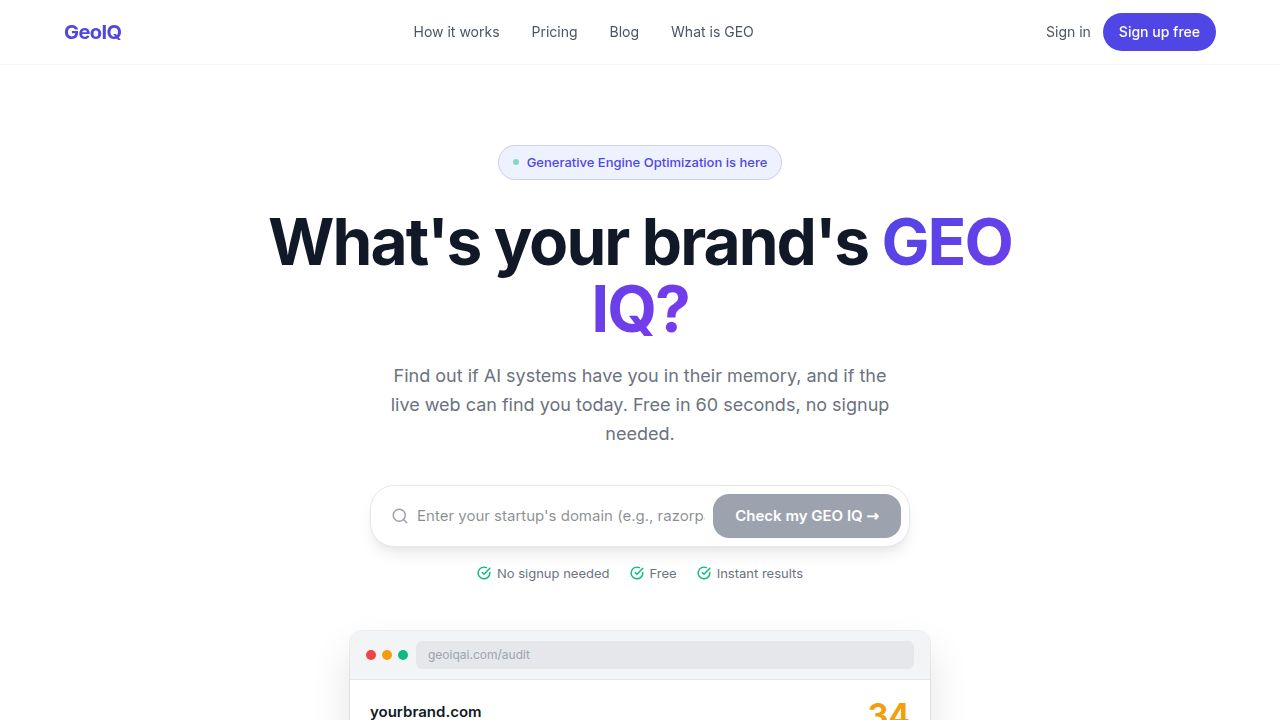
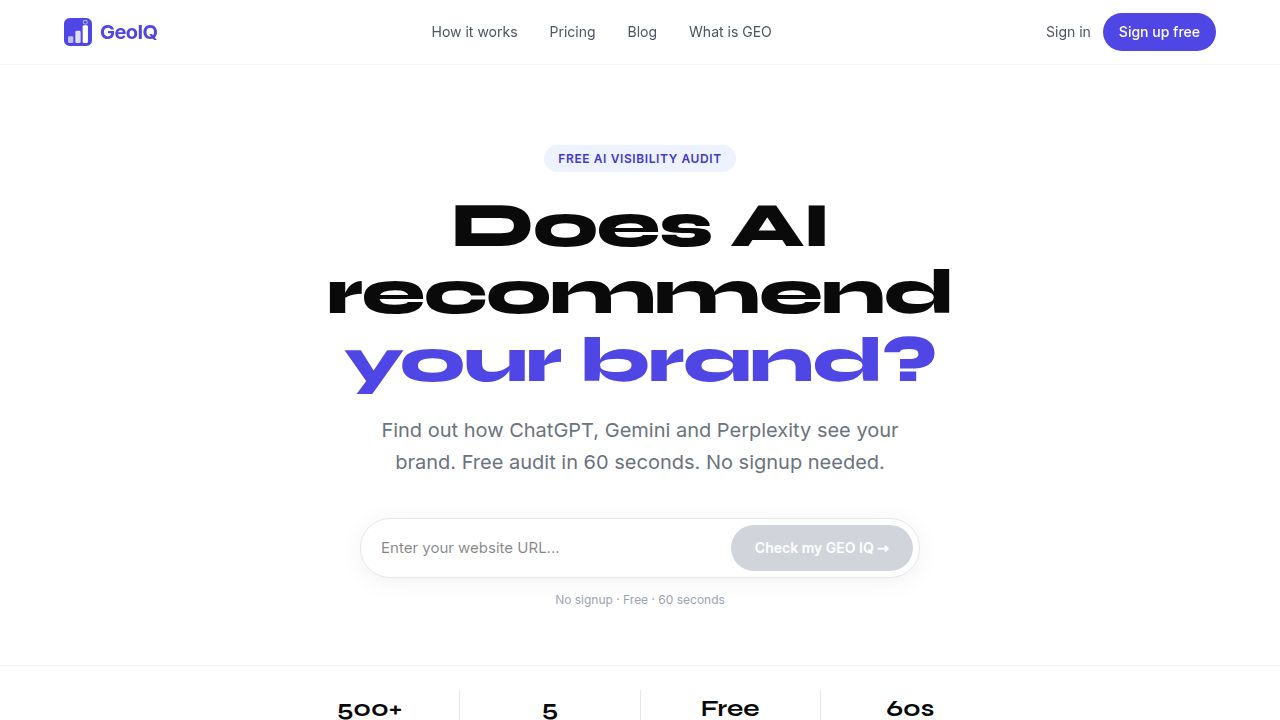
Add revenue overview to admin panel
Task: Add a revenue overview to the admin panel (#3)

Changes:
- artifacts/geoscore/src/pages/Admin.tsx:
  - Added TrendingUp icon import from lucide-react
  - Computed starterCount, agencyCount, and estimatedMRR from the
    already-loaded users array (Starter x Rs 3,999 + Agency x Rs 11,999)
  - Changed stat cards grid from 3 to 4 columns
  - Added a 4th "Est. MRR" card (amber/gold accent) showing the total
    estimated MRR formatted with en-IN locale (e.g. Rs 15,997)
  - Card includes a breakdown sub-line: "X Starter x Rs 3,999 / Y Agency x Rs 11,999"
  - Breakdown only renders once data is loaded (no flicker during load state)

No backend changes needed - all calculations are derived from the existing
users list already fetched by /api/admin/users.

No deviations from the task spec.

Replit-Task-Id: 6f61c469-0008-4d4a-9e07-03165dfe9f38

diff --git a/artifacts/geoscore/src/pages/Admin.tsx b/artifacts/geoscore/src/pages/Admin.tsx
@@ -1,6 +1,6 @@
 import { useState, useEffect } from "react";
 import { useLocation } from "wouter";
-import { Shield, Users, Ban, CheckCircle, LogOut, UserPlus, KeyRound, X } from "lucide-react";
+import { Shield, Users, Ban, CheckCircle, LogOut, UserPlus, KeyRound, X, TrendingUp } from "lucide-react";
 
 const ADMIN_EMAILS = ["[email redacted]"];
 
@@ -189,6 +189,9 @@ export default function Admin() {
   const totalUsers = users.length;
   const paidUsers = users.filter(u => u.plan !== "free").length;
   const blockedUsers = users.filter(u => u.blocked).length;
+  const starterCount = users.filter(u => u.plan === "starter").length;
+  const agencyCount = users.filter(u => u.plan === "agency").length;
+  const estimatedMRR = starterCount * 3999 + agencyCount * 11999;
 
   const modalOverlay: React.CSSProperties = {
     position: "fixed", inset: 0, background: "rgba(0,0,0,0.7)", zIndex: 50,
@@ -231,7 +234,7 @@ export default function Admin() {
         </div>
 
         {/* Stat cards */}
-        <div style={{ display: "grid", gridTemplateColumns: "repeat(3, 1fr)", gap: 16, marginBottom: 28 }}>
+        <div style={{ display: "grid", gridTemplateColumns: "repeat(4, 1fr)", gap: 16, marginBottom: 28 }}>
           {[
             { label: "Total users", value: totalUsers, icon: <Users size={16} color="#4F46E5" />, accent: "#4F46E5" },
             { label: "Paid users", value: paidUsers, icon: <CheckCircle size={16} color="#059669" />, accent: "#059669" },
@@ -245,6 +248,22 @@ export default function Admin() {
               <div style={{ fontSize: 28, fontWeight: 700, color: card.accent }}>{loading ? "-" : card.value}</div>
             </div>
           ))}
+          <div style={{ background: "#1E293B", borderRadius: 10, padding: "18px 20px", border: "1px solid rgba(255,255,255,0.06)" }}>
+            <div style={{ display: "flex", alignItems: "center", gap: 8, marginBottom: 10 }}>
+              <TrendingUp size={16} color="#D97706" />
+              <span style={{ fontSize: 12, color: "#64748B" }}>Est. MRR</span>
+            </div>
+            <div style={{ fontSize: 28, fontWeight: 700, color: "#D97706" }}>
+              {loading ? "-" : `Rs ${estimatedMRR.toLocaleString("en-IN")}`}
+            </div>
+            {!loading && (
+              <div style={{ marginTop: 8, fontSize: 11, color: "#475569", lineHeight: 1.6 }}>
+                {starterCount} Starter x Rs 3,999
+                <br />
+                {agencyCount} Agency x Rs 11,999
+              </div>
+            )}
+          </div>
         </div>
 
         {/* Users table */}